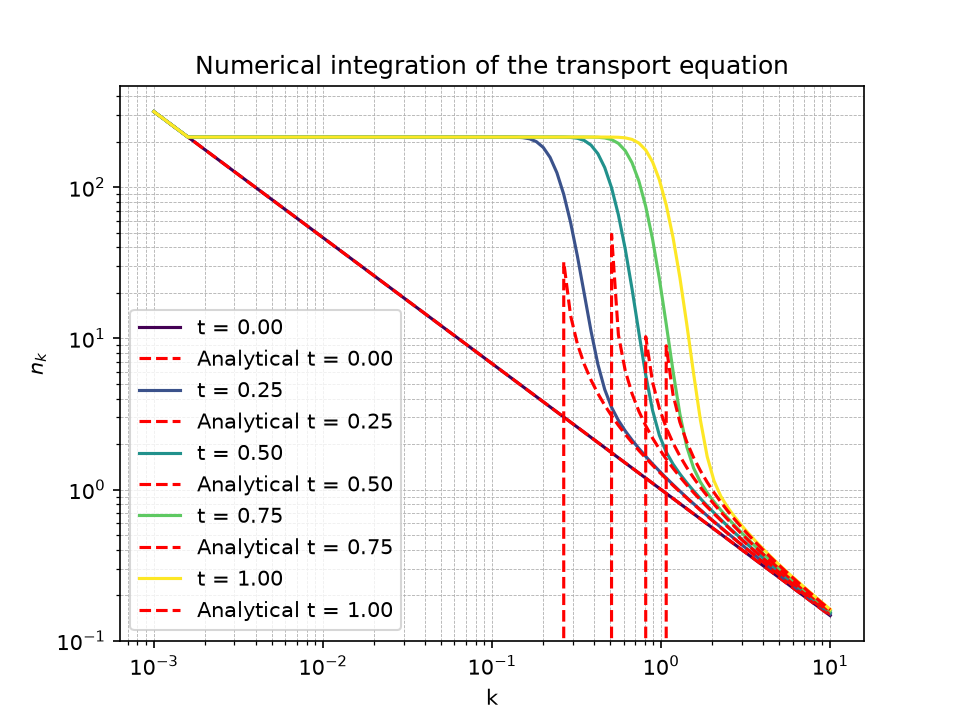
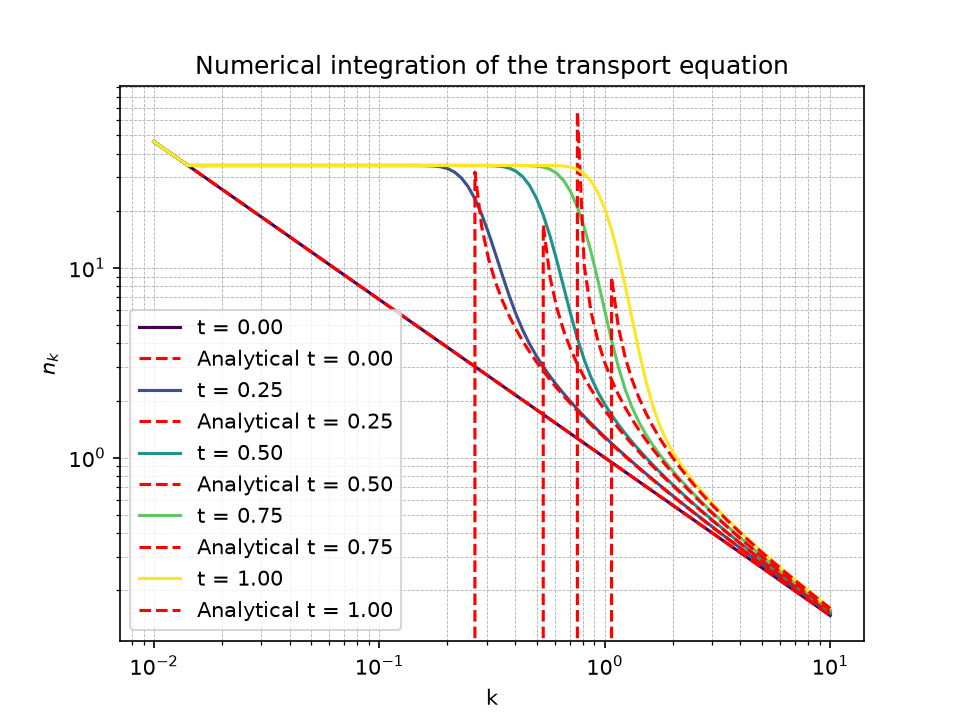
Update k_space parameter for improved integration results and refresh transport results image

diff --git a/main_transport.py b/main_transport.py
@@ -2,7 +2,7 @@ from transport import k_space, initial_condition, rhs, apply_bc, dndk, integrate
 
 c = -1.0
 
-k, dlnk = k_space(1e-3, 10, 100)
+k, dlnk = k_space(1e-2, 10, 100)
 n_k = initial_condition(1.0, k, -5/6)
 rhs_args = (k, dlnk, c)
 n_left_fix = n_k[:6].copy()
